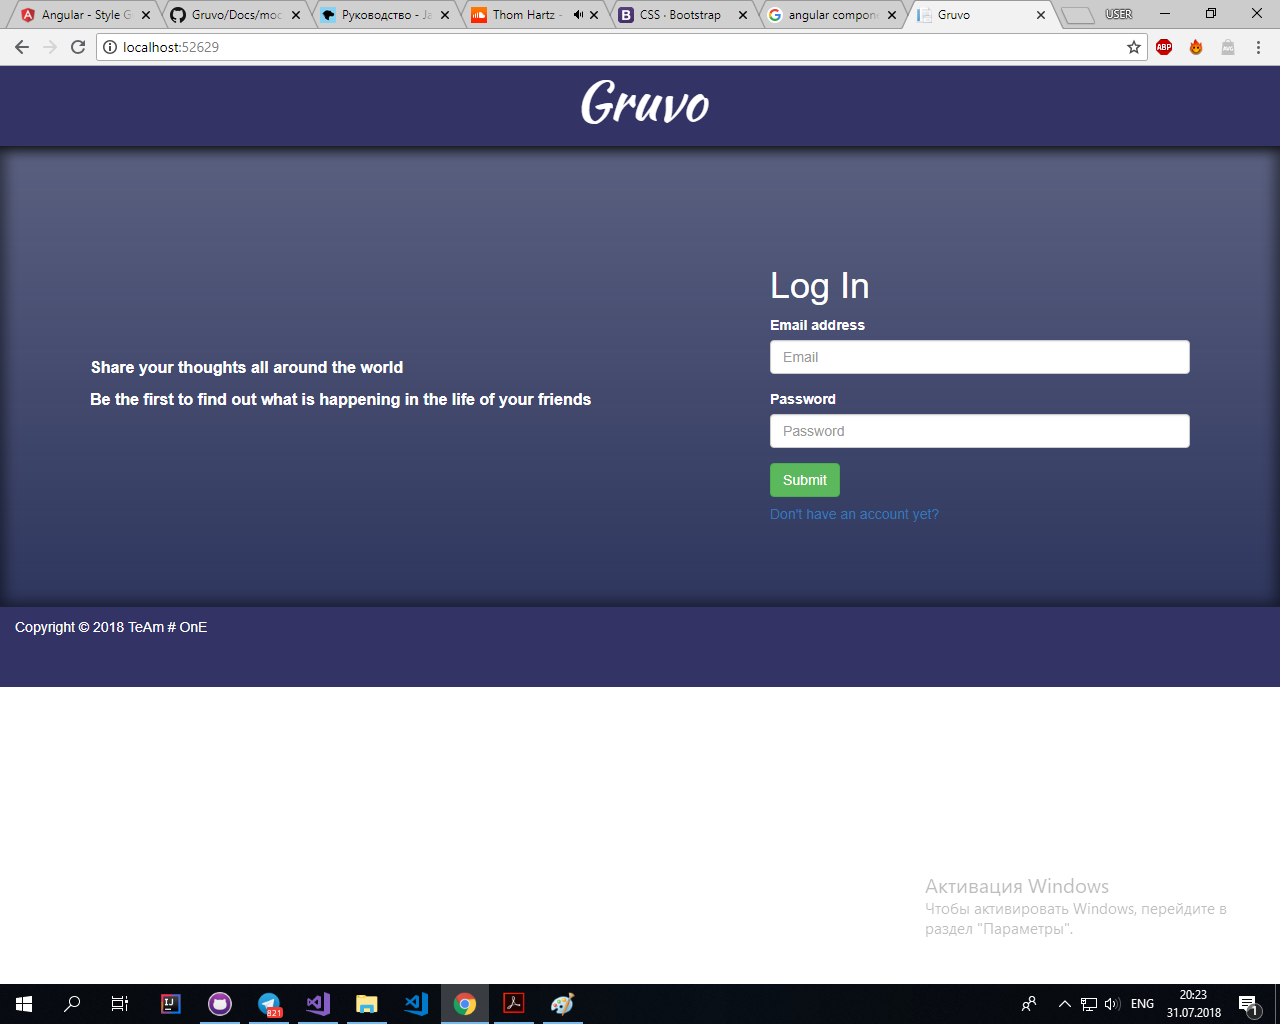
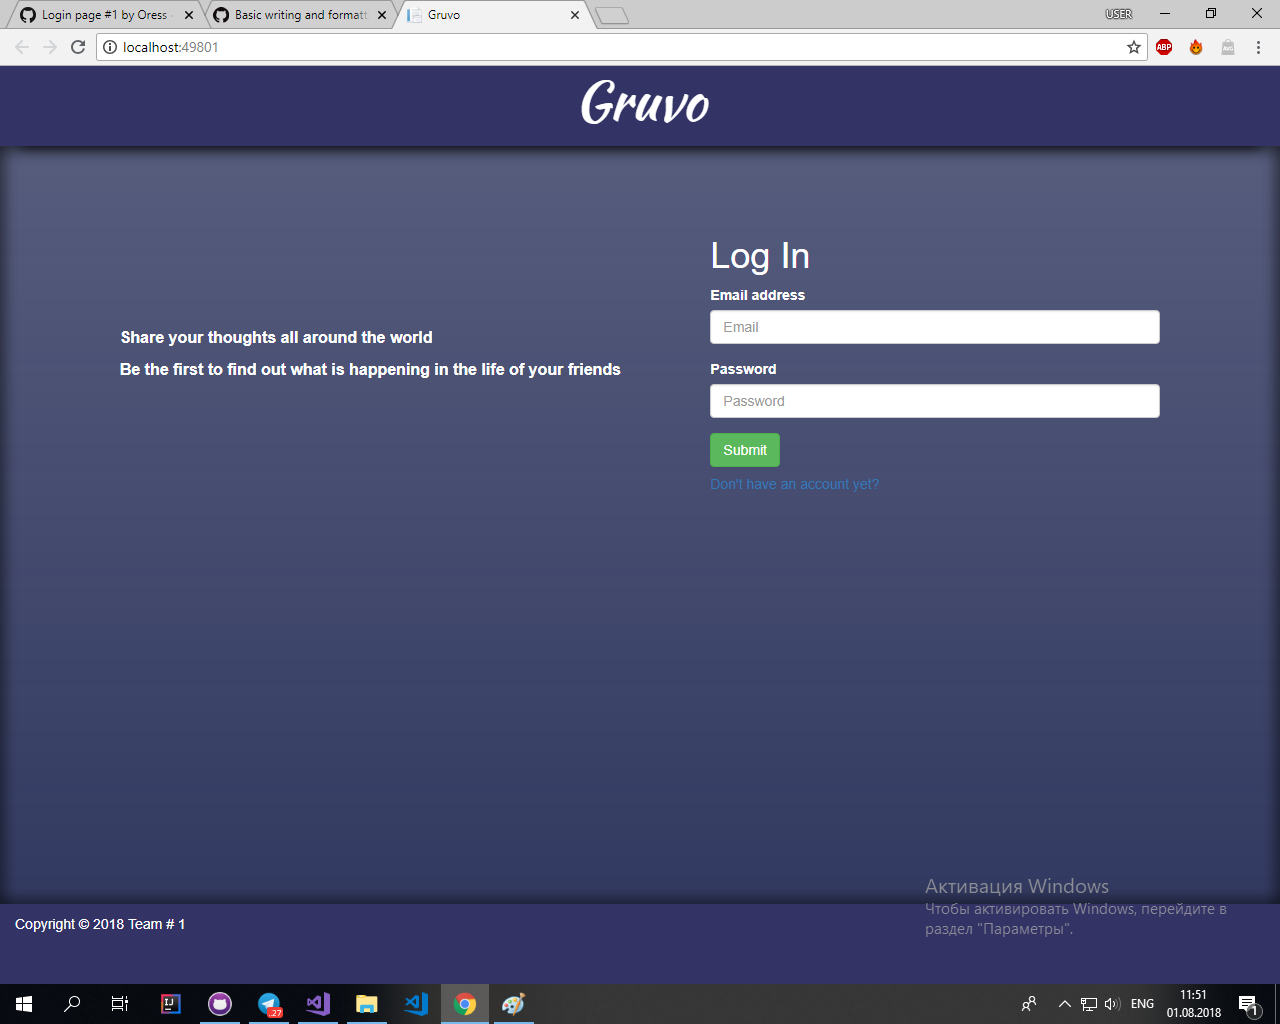
update 4
Added header and footer back clipped them to top and bottom of the screen, changed height to min-height

diff --git a/Gruvo/Gruvo/ClientApp/src/app/login/login.component.css b/Gruvo/Gruvo/ClientApp/src/app/login/login.component.css
@@ -1,12 +1,10 @@
 .content {
   width: 100%;
-  height: 100%;
-  overflow-y: auto;
+  min-height:100vh;
   display: flex;
   flex-flow: column;
   align-content: stretch;
   background: linear-gradient( rgba(35,43,85,0.75), rgba(35,43,85,0.95));
-  background-size: cover;
   box-shadow: 0px 0px 22px 5px rgba(0,0,0,0.5) inset, 0 20px 20px -20px #000 inset;
   color: white;
 }
@@ -18,9 +16,11 @@
 
 .inner {
   display: flex;
+  width:100%;
   flex-flow: row;
   align-items: center;
-  margin-top: 100px;
+  justify-content:space-around; 
+  margin-top: 150px;
   margin-bottom: 75px;
   padding-left: 75px;
   padding-right: 75px;
@@ -31,6 +31,5 @@ a:hover{
 }
 
 .login-form{
-  max-width:450px;
-
+  min-width:450px;
 }

diff --git a/Gruvo/Gruvo/ClientApp/src/app/app.module.ts b/Gruvo/Gruvo/ClientApp/src/app/app.module.ts
@@ -5,18 +5,11 @@ import { HttpClientModule } from '@angular/common/http';
 import { RouterModule } from '@angular/router';
 
 import { AppComponent } from './app.component';
-import { LoginComponent } from './login/login.component';
-import { SignupComponent } from './signup/signup.component';
-import { HeaderComponent } from './header/header.component';
-import { FooterComponent } from './footer/footer.component';
+
 
 @NgModule({
   declarations: [
-    AppComponent,
-    LoginComponent,
-    HeaderComponent,
-    FooterComponent,
-    SignupComponent
+    AppComponent
   ],
   imports: [
     BrowserModule.withServerTransition({ appId: 'ng-cli-universal' }),

diff --git a/Gruvo/Gruvo/ClientApp/src/app/login/login.component.html b/Gruvo/Gruvo/ClientApp/src/app/login/login.component.html
@@ -1,6 +1,6 @@
   <div class="content ">
     <div class="inner">
-      <div class="intro container">
+      <div class="intro ">
         <p>
           Share your thoughts all around the world
         </p>
@@ -8,7 +8,7 @@
           Be the first to find out what is happening in the life of your friends
         </p>
       </div>
-      <div class="login-form container">
+      <div class="login-form">
         <h1>Log In</h1>
         <div class="form-group">
           <label for="exampleInputEmail1">Email address</label>
@@ -24,5 +24,4 @@
         <a href="#"><h5>Don't have an account yet?</h5></a>
       </div>
     </div>
-   </div>
-
+  </div>

diff --git a/Gruvo/Gruvo/ClientApp/src/app/header/header.component.css b/Gruvo/Gruvo/ClientApp/src/app/header/header.component.css
@@ -9,6 +9,9 @@
 }
 
 .header {
+  position: fixed;
+  top: 0;
+  z-index: 10;
   display: flex;
   justify-content: center;
   background-color: rgb(51, 51, 102);
@@ -16,6 +19,7 @@
   width: 100%;
   padding-top: 10px;
   padding-bottom: 10px;
+  box-shadow: 0px 0px 22px 5px rgba(0,0,0,0.5), 0 20px 20px -20px #000
 }
 
 .header gr-login-form {

diff --git a/Gruvo/Gruvo/ClientApp/src/app/signup/signup.component.css b/Gruvo/Gruvo/ClientApp/src/app/signup/signup.component.css
@@ -1,6 +1,6 @@
 .content {
   width: 100%;
-  height: 100%;
+  min-height: 100vh;
   overflow-y: auto;
   display: flex;
   flex-flow: column;
@@ -11,11 +11,10 @@
   color: white;
 }
 
-
 .signup {
   max-width:400px;
   justify-content: center;
   align-items: center;
-  margin-top: 100px;
+  margin-top: 150px;
   margin-bottom: 75px;
 }

diff --git a/Gruvo/Gruvo/ClientApp/src/app/footer/footer.component.css b/Gruvo/Gruvo/ClientApp/src/app/footer/footer.component.css
@@ -1,8 +1,11 @@
- .footer {
+.footer {
+  position: fixed;
+  bottom: 0;
   background-color: rgb(51, 51, 102);
   height: 80px;
   width: 100%;
   padding-top: 10px;
   padding-bottom: 10px;
-  color:white;
+  color: white;
+  box-shadow: 0px 0px 22px 5px rgba(0,0,0,0.5) , 0 20px 20px -20px #000
 }

diff --git a/Gruvo/Gruvo/ClientApp/src/app/login/login.component.ts b/Gruvo/Gruvo/ClientApp/src/app/login/login.component.ts
@@ -6,7 +6,6 @@ import { Component, OnInit, HostBinding } from '@angular/core';
   styleUrls: ['./login.component.css']
 })
 export class LoginComponent {
-  @HostBinding('attr.class') cssClass = 'main';
   email: string;
   password: string; 
  }

diff --git a/Gruvo/Gruvo/ClientApp/src/app/app.component.html b/Gruvo/Gruvo/ClientApp/src/app/app.component.html
@@ -1,3 +1,1 @@
-<gr-header></gr-header>
-<gr-login></gr-login>
-<gr-footer></gr-footer>
+<h1>Hello</h1>
